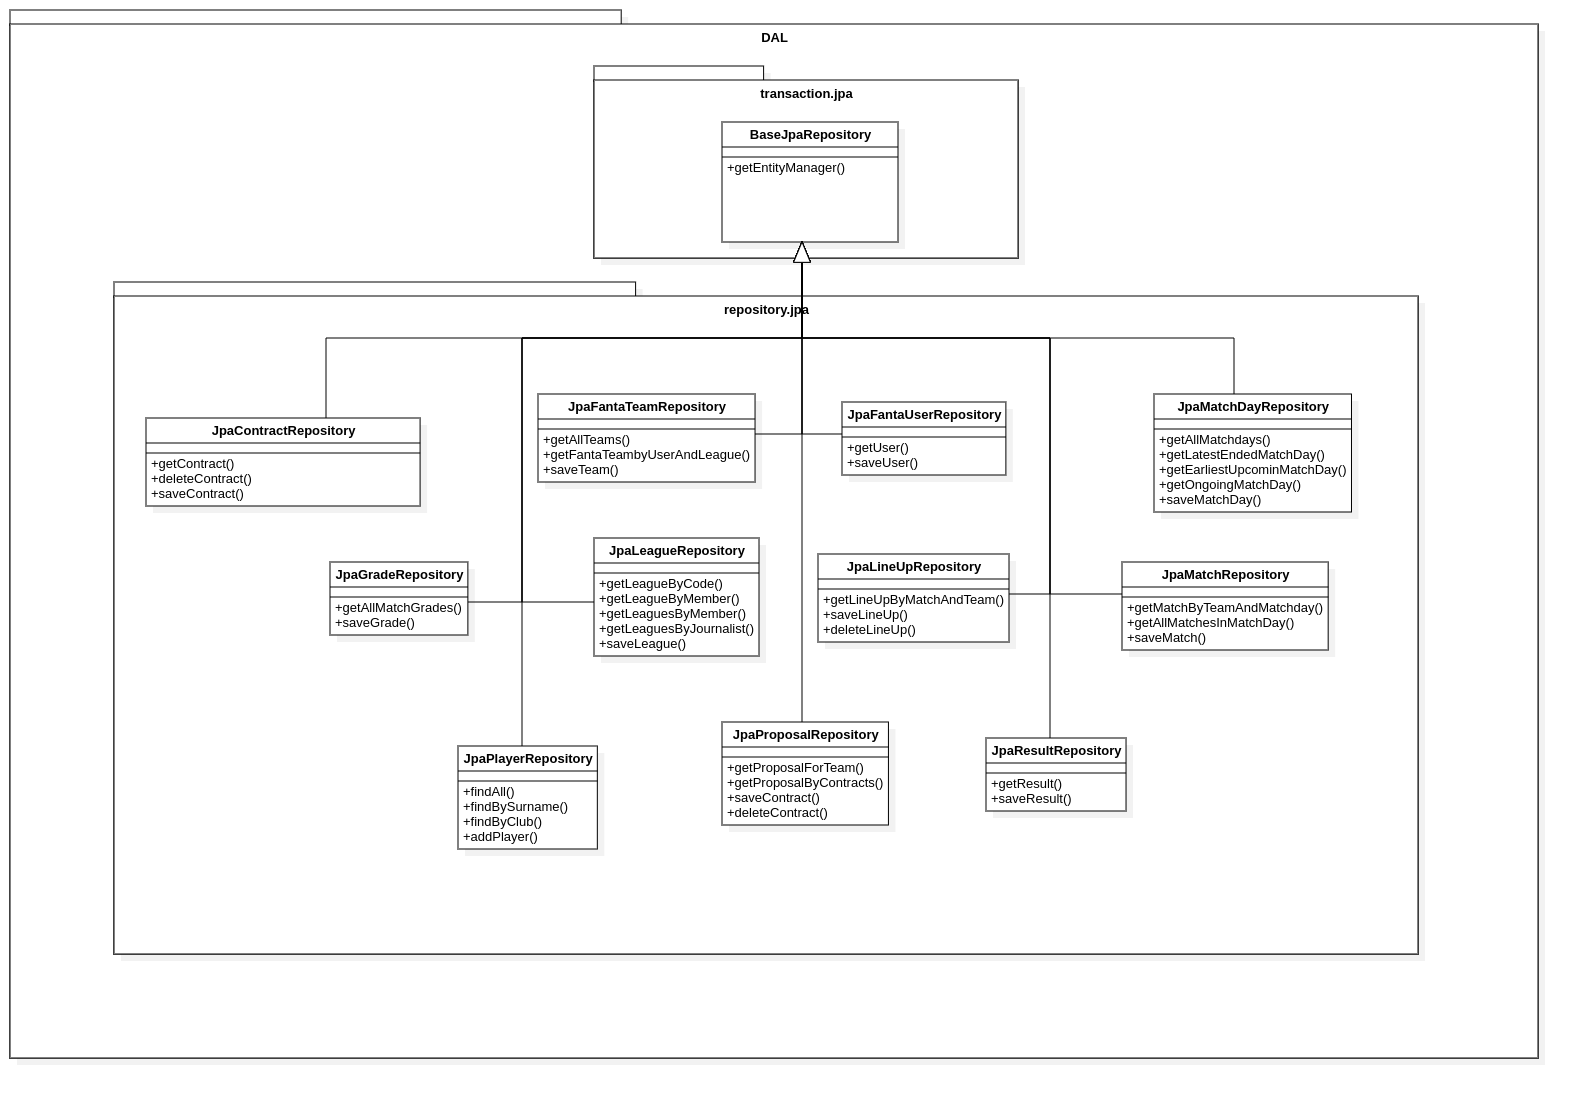
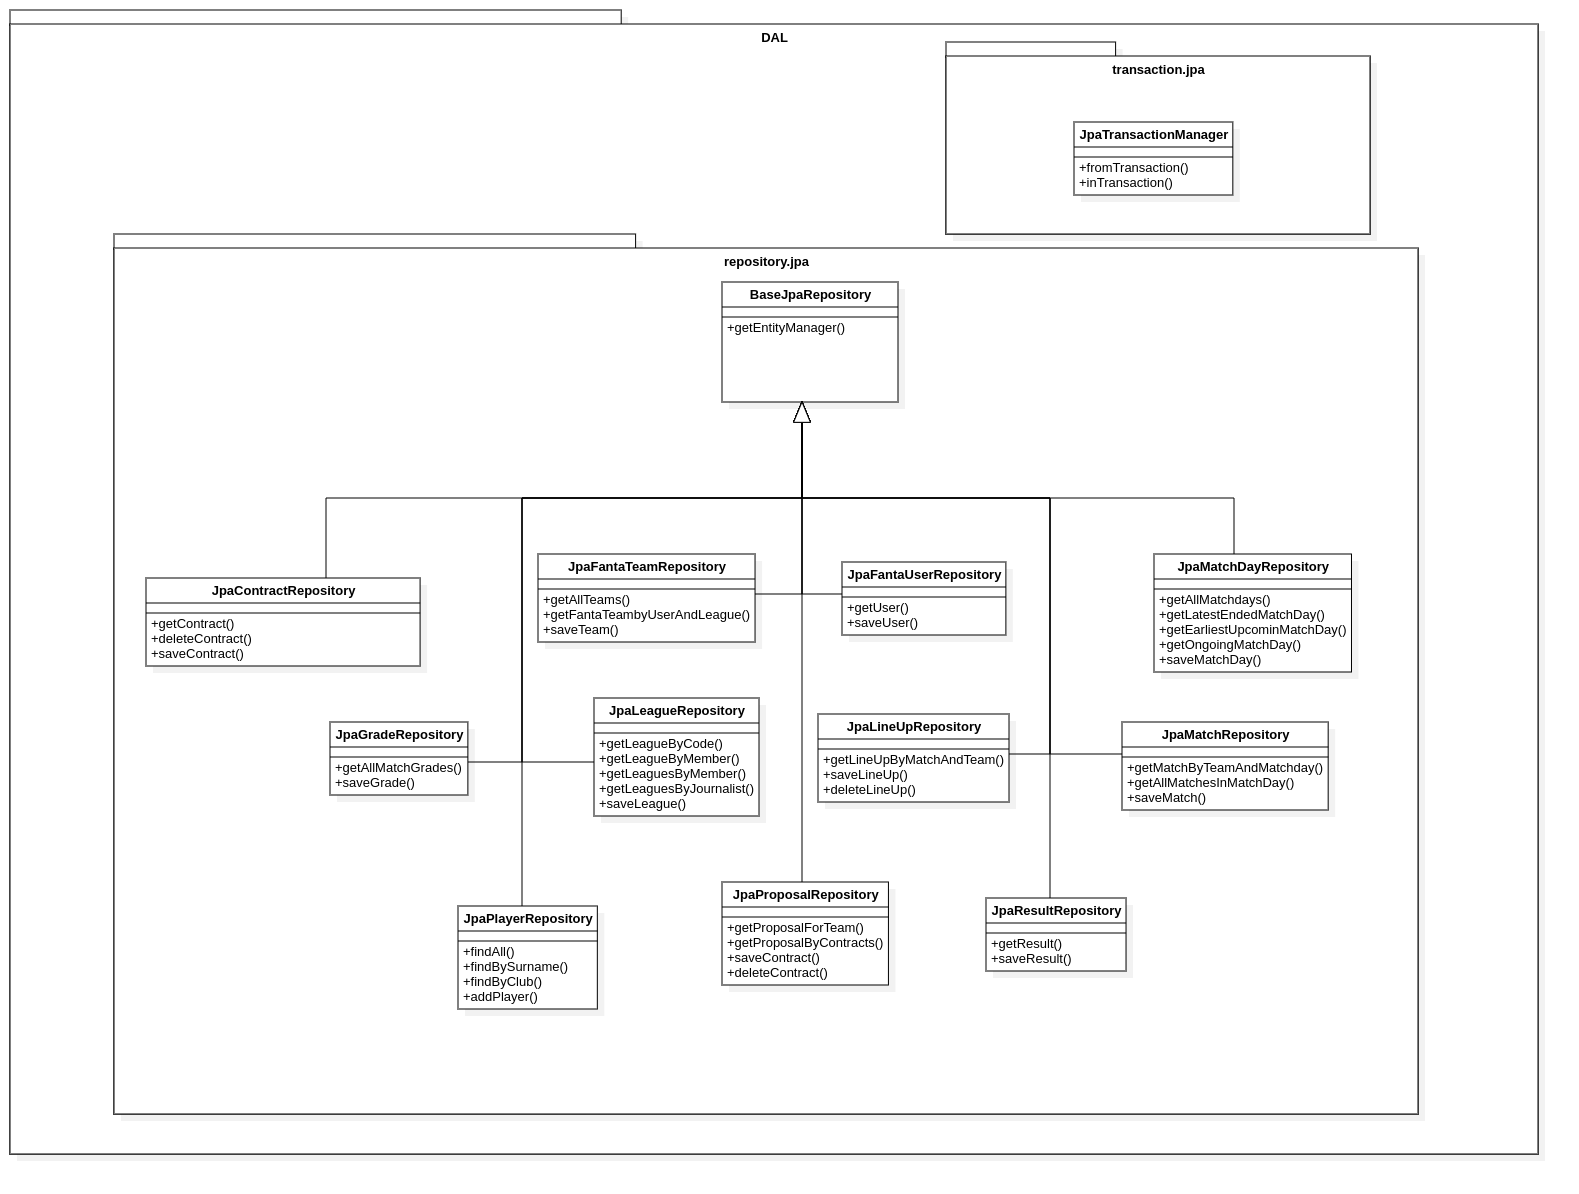
Scritta parte sui repository e corretto grafico

diff --git a/Relazione/Part/Implementazione.tex b/Relazione/Part/Implementazione.tex
@@ -58,7 +58,7 @@ In particolare vengono utilizzati i due metodi \textit{inTransaction} e \textit{
     \centering
     \includegraphics[width=\textwidth]{Resources/graficiUML/BusinessClassDiagram.png}        
     \caption{Business class diagram.}
-    \label{fig:business_class_diagram}
+    \label{fig:business_class_diagram2}
 \end{figure}
 
 Di seguito l'implementazione di \textit{inTransaction} e \textit{fromTransaction}:
@@ -105,7 +105,35 @@ Di seguito l'implementazione di \textit{inTransaction} e \textit{fromTransaction
 	}
 }
 \end{lstlisting}
+\newpage
 
 \subsection{Repositories}
+I repository concreti estendono tutti il \textbf{BaseJpaRepository} ed implementano la relativa interfaccia.
+Le query sono state implementate con le \textit{CriteriaQuery}, ciò ha permesso insieme
+all'utilizzo del metamodello di avere un controllo a compile time sulle entità utilizzate nella query.
 
+\begin{figure}
+    \centering
+    \includegraphics[width=\textwidth]{Resources/graficiUML/DALClassDiagram.png}        
+    \caption{Dal class diagram.}
+    \label{fig:Dal_class_diagram2}
+\end{figure}
 
+Esempio di query effettuata tramite le \textit{CriteriaQuery}:
+\begin{lstlisting}[language=Java]
+@Override
+	public Optional<FantaUser> getUser(String email, String password) {
+    	EntityManager em = getEntityManager();
+        CriteriaBuilder cb = em.getCriteriaBuilder();
+        CriteriaQuery<FantaUser> query = cb.createQuery(FantaUser.class);
+        Root<FantaUser> root = query.from(FantaUser.class);
+
+        query.select(root).where(
+                cb.equal(root.get(FantaUser_.email), email),
+                cb.equal(root.get(FantaUser_.password), password)
+        );
+
+        return em.createQuery(query).getResultList().stream().findFirst();
+	}
+}
+\end{lstlisting}

diff --git a/Relazione/main.tex b/Relazione/main.tex
@@ -74,7 +74,6 @@ numberstyle = \tiny,
 \include{Part/Introduzionegenerale}
 
 \include{Part/Progettazione}
-\include{Part/DataBase}
 
 \include{Part/Implementazione}
 
